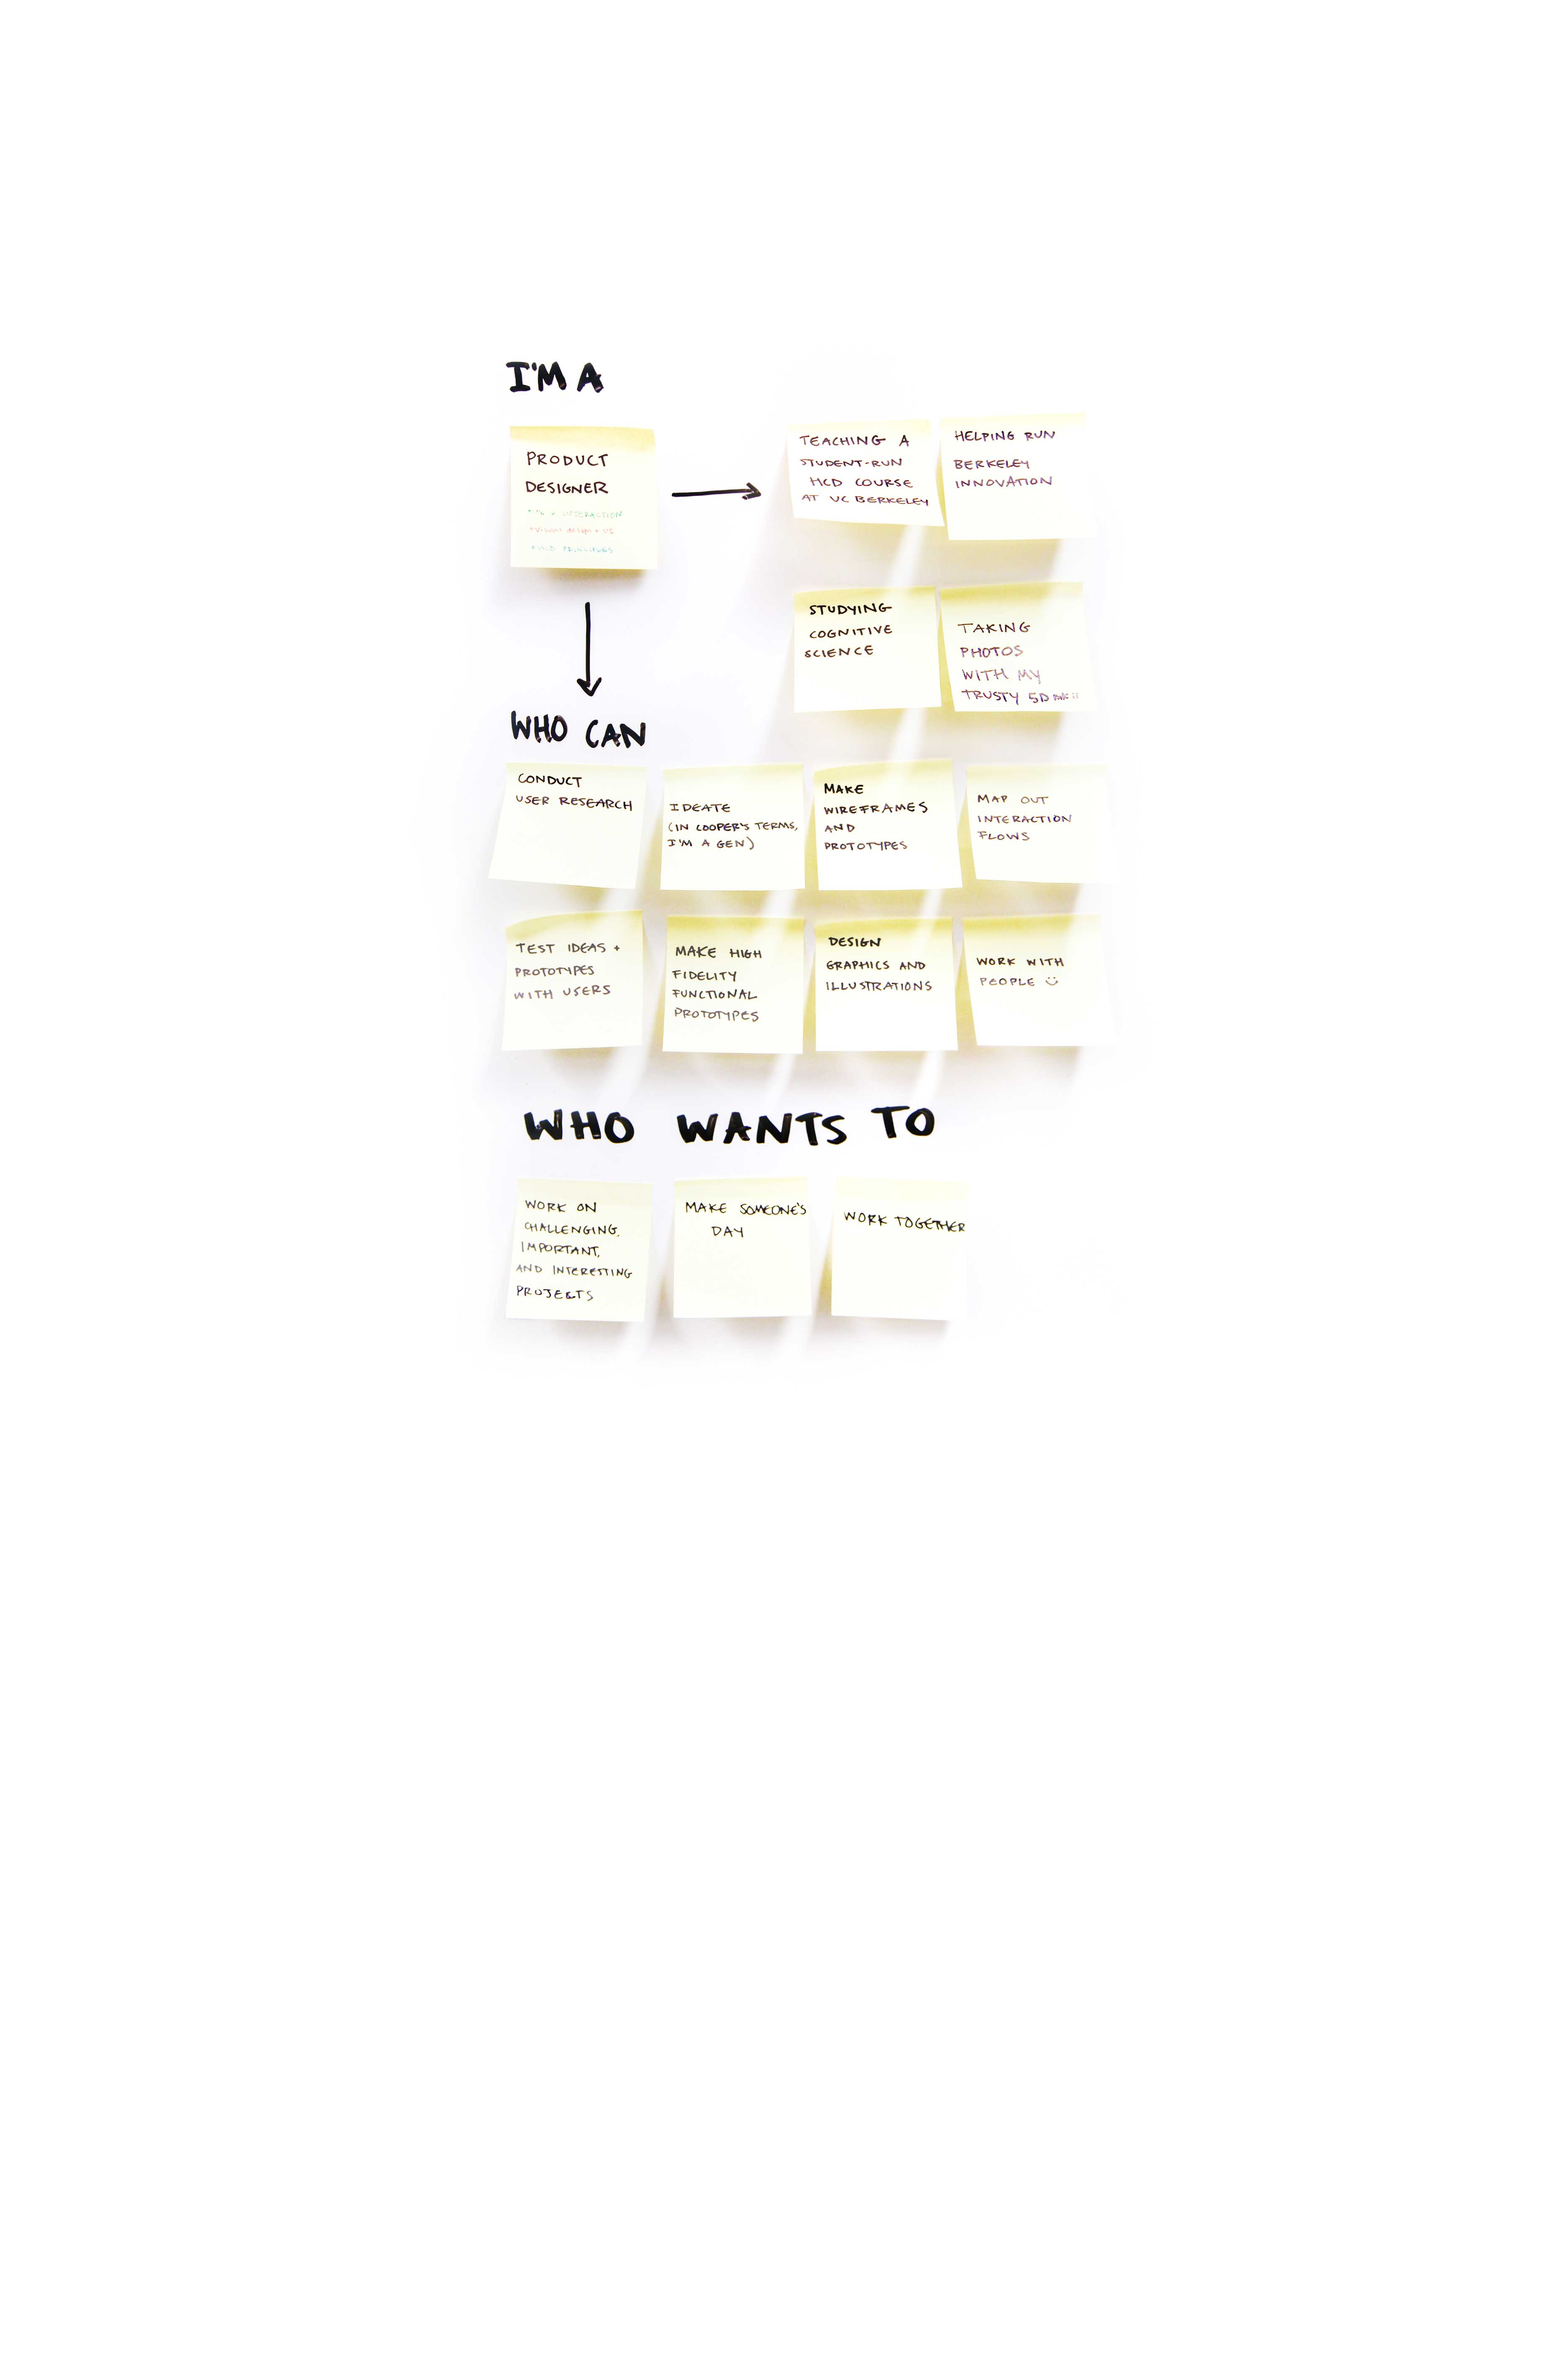
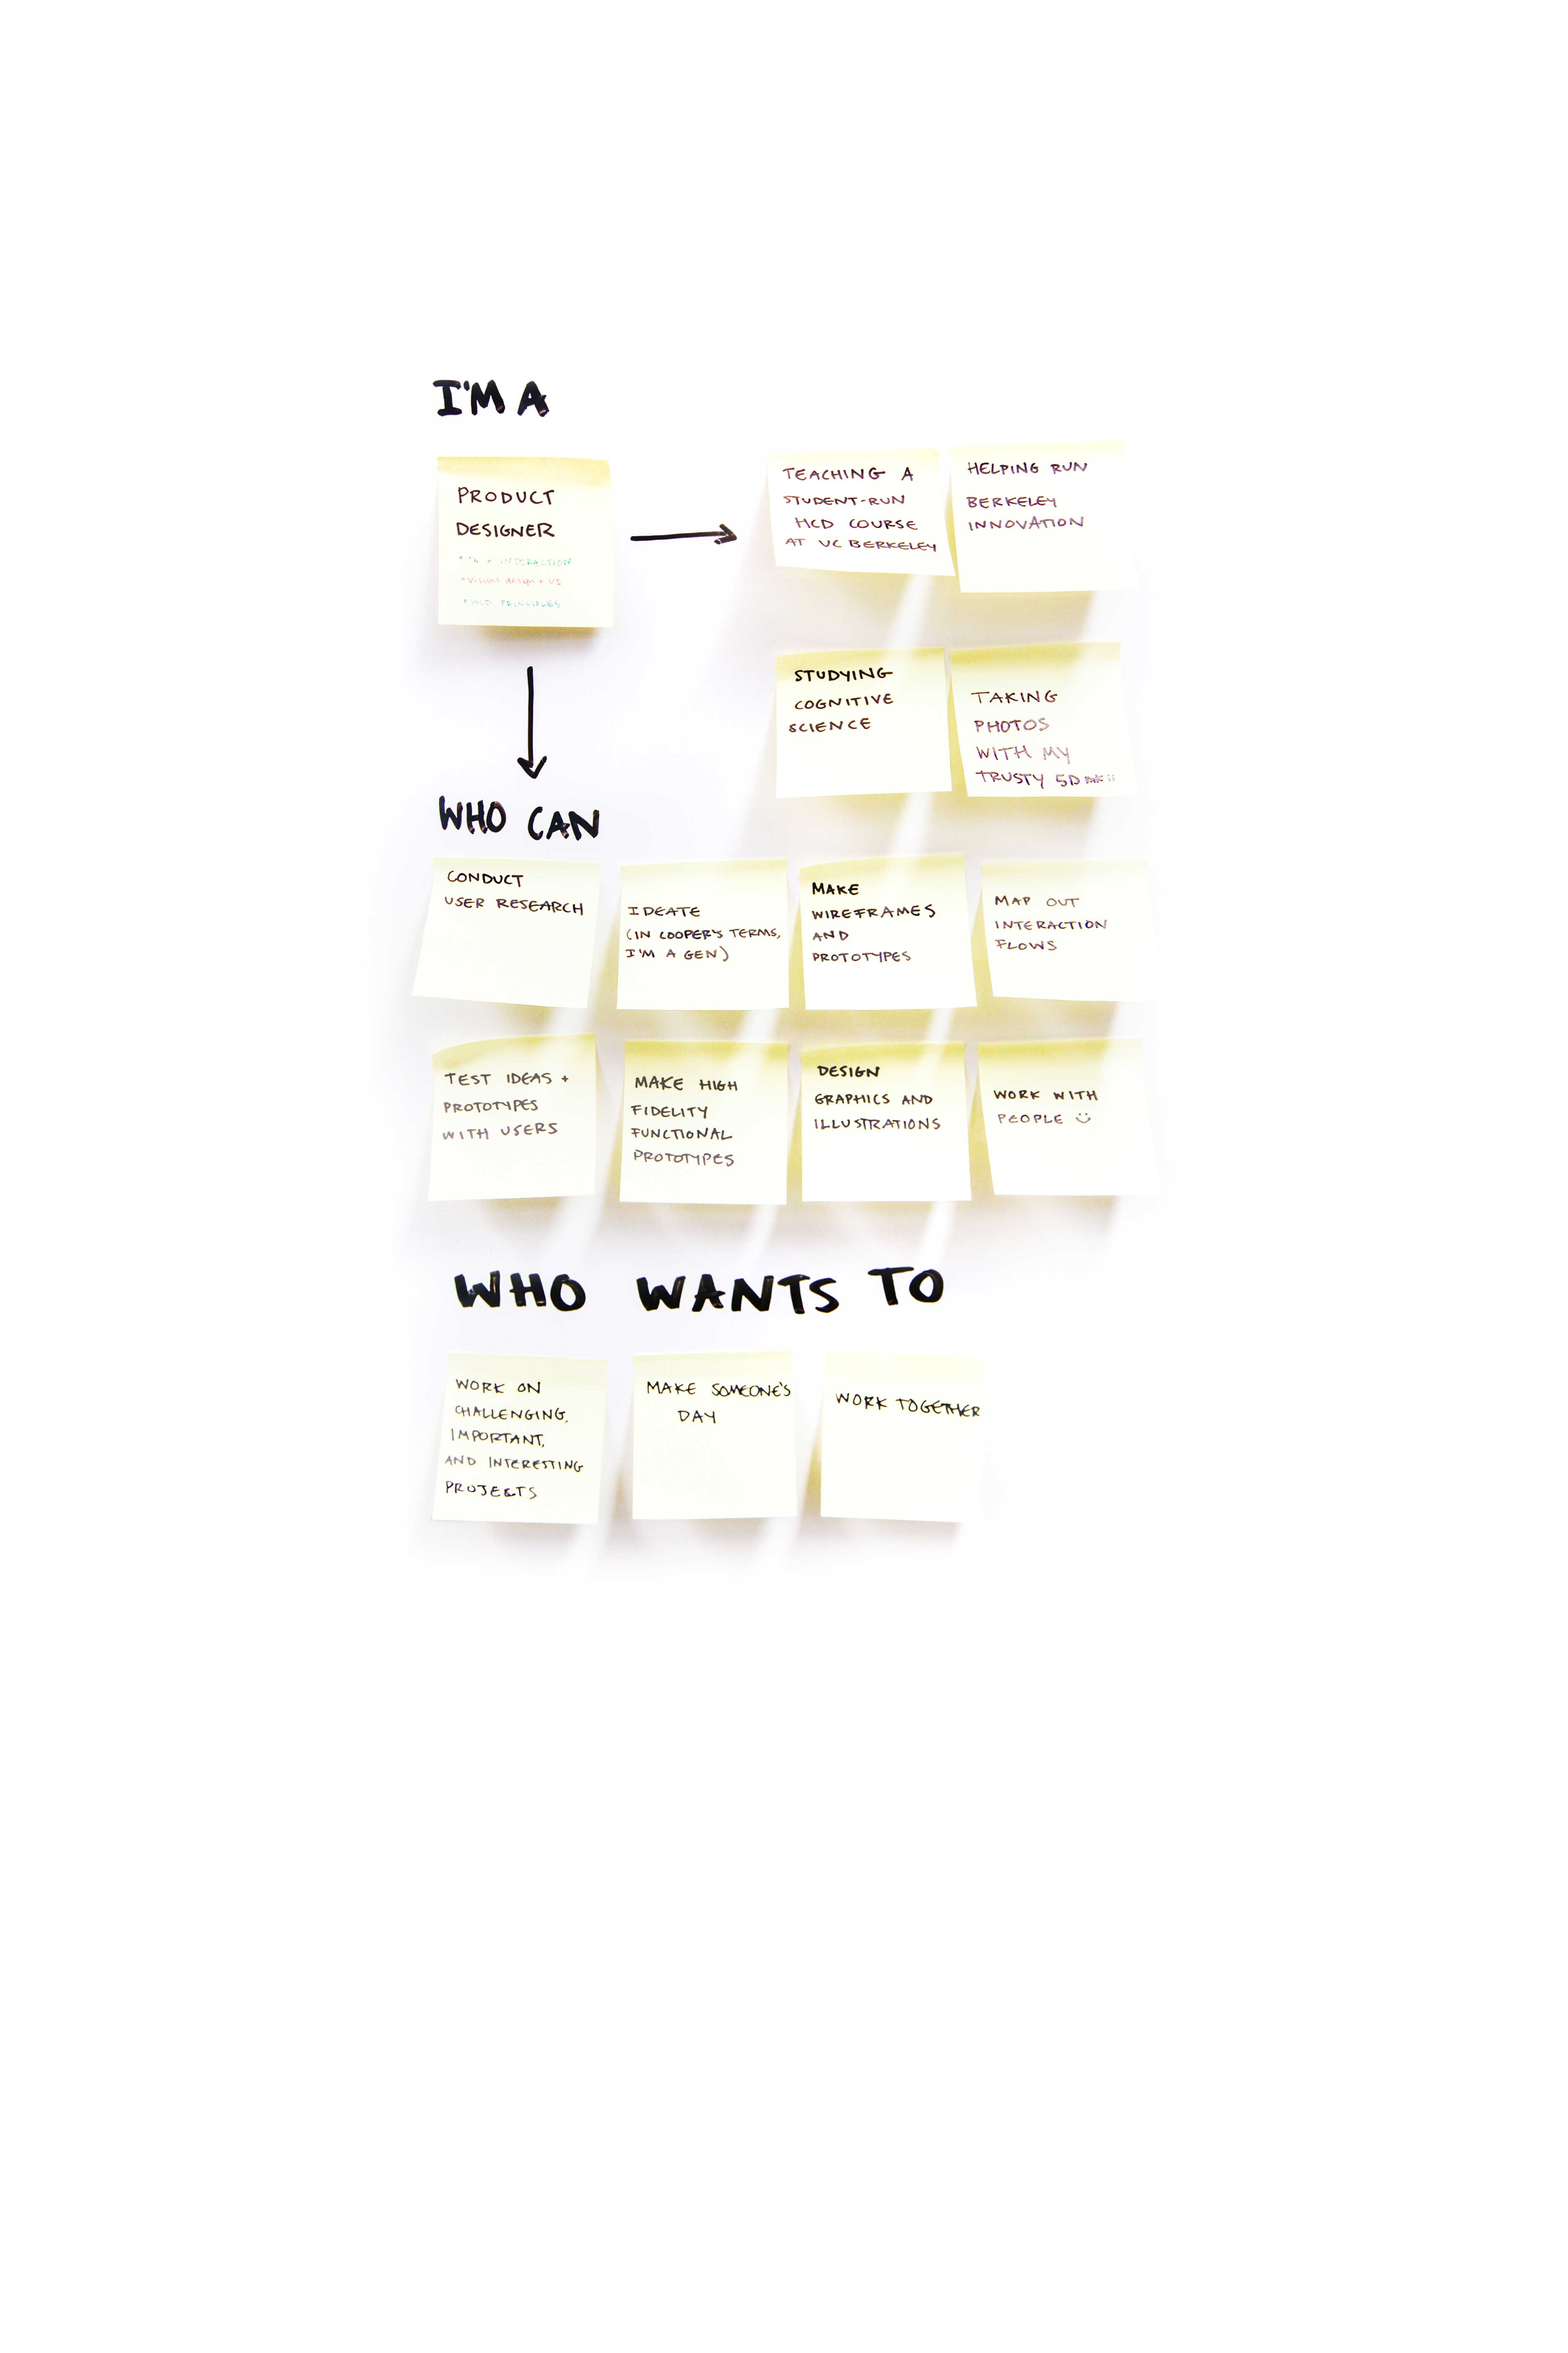
hi update, image res, and hi --> index fix

Changed region(s): [[0.2812, 0.1558, 0.7188, 0.6544], [0.5938, 0.5921, 0.625, 0.6232]]

diff --git a/index.html b/index.html
@@ -64,21 +64,23 @@
 	<div class="intro" id="intro" style="z-index: 100; position: absolute; margin-left: -250px">
 		<h1> Hi, my name is Masha, and I</h1>
 		<ul class="intro-list fadein">
-			<li><mark>Design things</mark></li>
-			<li>Take photos</li>
+			<li><mark>Have a thing for all things product design*</mark></li>
+			<li>Take photos for kicks and side gigs with my trusty mk ii</li>
+			<li>Like to try my hand at other mediums in between</li>
 			<!-- <li>Make other stuff</li> -->
-			<li><mark>Care a lot about education, healthTech, and sustainability projects</mark></li>
+			<li><mark>Care particularly about education, healthTech, and sustainability projects</mark></li>
 			<!-- <li>Am in Sweden right now</li> -->
 		<!-- 	<li>Will be back in California, come June</li> -->
 			<!-- <li>Have a background in Cognitive Science</li> -->
-			<li>Study Cognitive Science at Cal (Go Bears)</li>
-			<li>Like to make things with my hands</li>
+			<li>Study Cognitive Science with the hope of understanding people before designing for them (also, Go Bears!)</li>
+			<li>Can be silly (mostly) when appropriate</li>
+
 			<!-- <li>Can't live happily without my bicycle</li> -->
 			<!-- <li>Teach human-centered design</li> -->
 			<!-- <li>want to be a hero</li> -->
 			<!-- <li>can't and won't sing</li> -->
 			<!-- <li>can do two pull ups</li> -->
-			<li><mark>Want to work on awesome projects with other passionate creatives</mark></li>
+			<li><mark>Want to work on awesome, intense, and important projects with other eager creatives</mark></li>
 
 	</div>
 <img src="images/caution1.jpg" style="width: 100%; height: auto; margin-left: -50px; margin-top: -170px; z-index: -1; position: absolute;">
